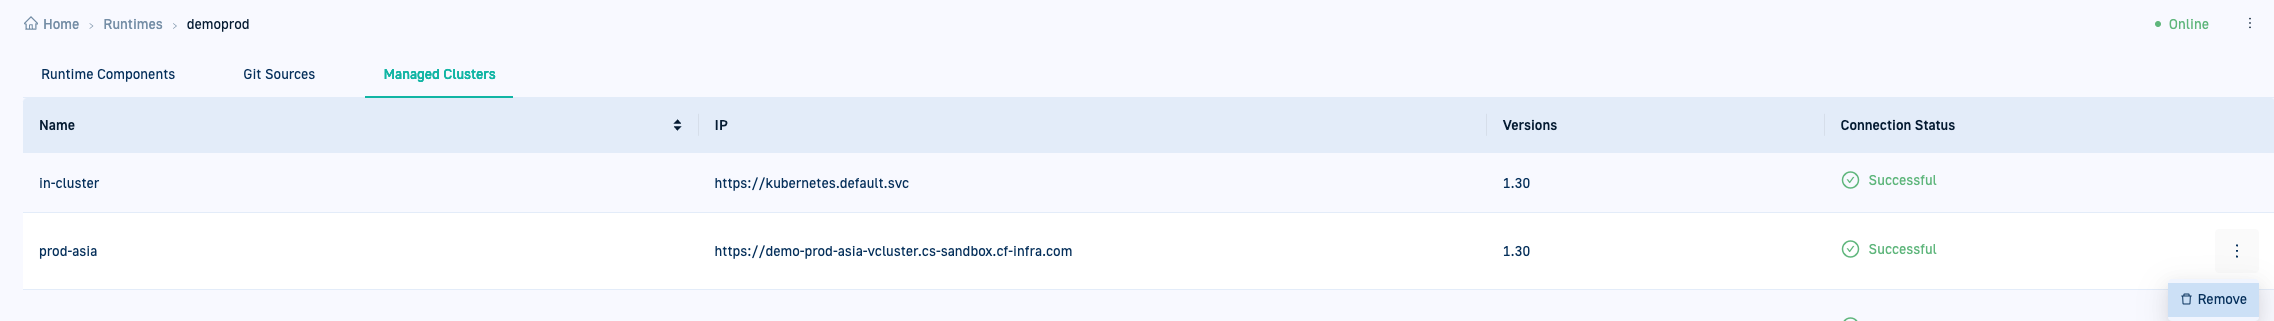
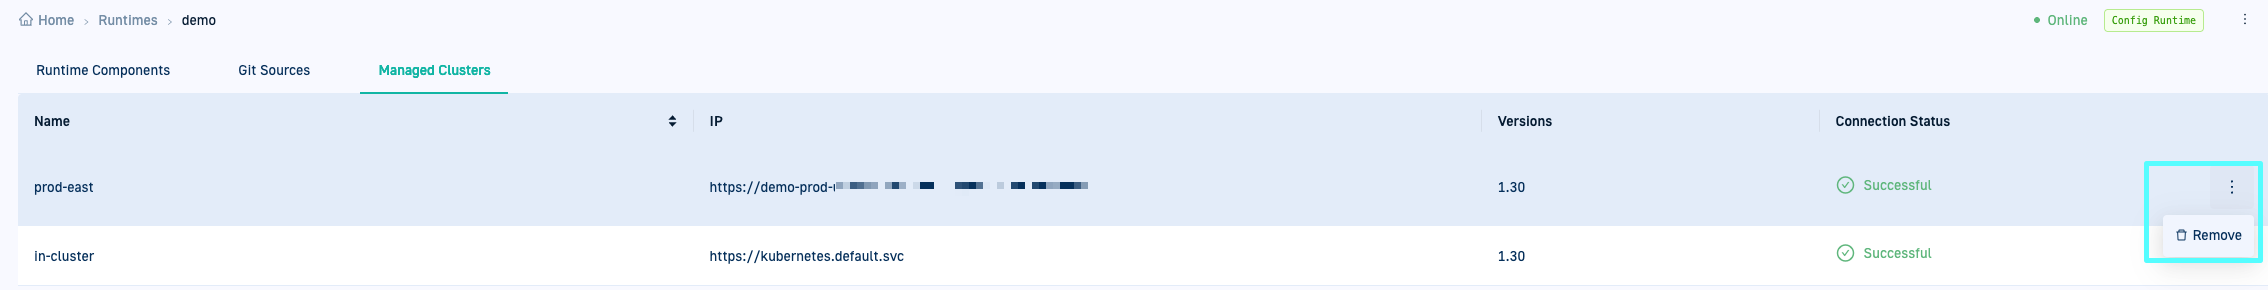
Update options to remove clusters
Removed Kustomize and Helm sections for cluster removal and replaced screenshot for UI removal

diff --git a/_docs/installation/gitops/managed-cluster.md b/_docs/installation/gitops/managed-cluster.md
@@ -96,7 +96,7 @@ helm install oci://quay.io/codefresh/charts/csdp-add-cluster -f values.yaml --ge
 
 >**NOTES**  
 1. For ingress-based GitOps Runtimes, to get the `ingressUrl` for your Runtime, first authenticate to the  GitOps CLI, and then run `cf runtime list` in your terminal.
-<br/>2.The Helm Chart is installed by default in the `kube-system` namespace. To change the namespace, configure the `systemNamespace` value **in addition** to the  `--namespace` option, so both the Helm Release and the resources are installed in the desired namespace.
+1. The Helm Chart is installed by default in the `kube-system` namespace. To change the namespace, configure the `systemNamespace` value **in addition** to the  `--namespace` option, so both the Helm Release and the resources are installed in the desired namespace.
 
 
 ### Add a managed cluster with Terraform
@@ -124,8 +124,8 @@ As the cluster is managed through the Runtime, updates to the Runtime automatica
 View connection status for the managed cluster, and health and sync errors. Health and sync errors are flagged by the error notification in the toolbar, and visually flagged in the List and Topology views.
 
 ## Install Argo Rollouts
-Applications with `rollout` resources need Argo Rollouts on the target cluster, both to visualize rollouts in the Applications dashboard and control rollout steps with the Rollout Player.
-If Argo Rollouts has not been installed on the target cluster, the **Install Argo Rollouts** button displayed.
+Applications with `rollout` resources need Argo Rollouts on the target cluster, both to visualize rollouts in the GitOps Apps dashboard, and control rollouts  with the Rollout Player.
+If Argo Rollouts has not been installed on the target cluster, the **Install Argo Rollouts** button is displayed.
 
 Install Argo Rollouts with a single click to execute rollout instructions, deploy the application, and visualize rollout progress in the [GitOps Apps dashboard]({{site.baseurl}}/docs/dashboards/gitops-apps-dashboard/). 
 
@@ -154,13 +154,11 @@ This action only removes the management link between your GitOps Runtime and you
 Remove a managed cluster in any of the following ways:
 * [Codefresh UI](#remove-a-managed-cluster-from-the-codefresh-ui)
 * [GitOps CLI](#remove-a-managed-cluster-through-the-gitops-cli)
-* [Kustomize](#remove-a-managed-cluster-with-kustomize)
-* [Helm](#remove-a-managed-cluster-with-helm)
 * [Terraform](#remove-a-managed-cluster-with-terraform)
 
 
 ### Remove a managed cluster from the Codefresh UI
-Remove a cluster from the list managed by the GitOps Runtime in the Codefresh UI.
+Remove a cluster from a GitOps Runtime through the Codefresh UI.
 
 {{site.data.callout.callout_tip}} 
 **TIP**  
@@ -186,24 +184,18 @@ In the Codefresh UI, on the toolbar, click the **Settings** icon, expand Runtime
 
 
 ### Remove a managed cluster through the GitOps CLI
-Remove a managed cluster from the list managed by the GitOps Runtime through the GitOps CLI.
+Remove a managed cluster from the GitOps Runtime through the GitOps CLI.
 
-* Run:
+>**NOTE**  
+Run the command on the cluster you want to remove.
+
+* Run:  
   `cf cluster remove <runtime-name> --server-url <server-url>`
   where:
   `<runtime-name>` is the name of the GitOps Runtime that the managed cluster is registered to.
   `<server-url>` is the URL of the server on which the managed cluster is installed.
 
 
-
-
-### Remove a managed cluster with Kustomize
-
-Run `kubectl delete -f <your_yaml>` with the result of the `kustomize build` command that you run during installation
-
-### Remove a managed cluster with Helm
-
-Run `helm delete <release_name>` with the name of the release that was created during installation.
 
 ### Remove a managed cluster with Terraform
 
